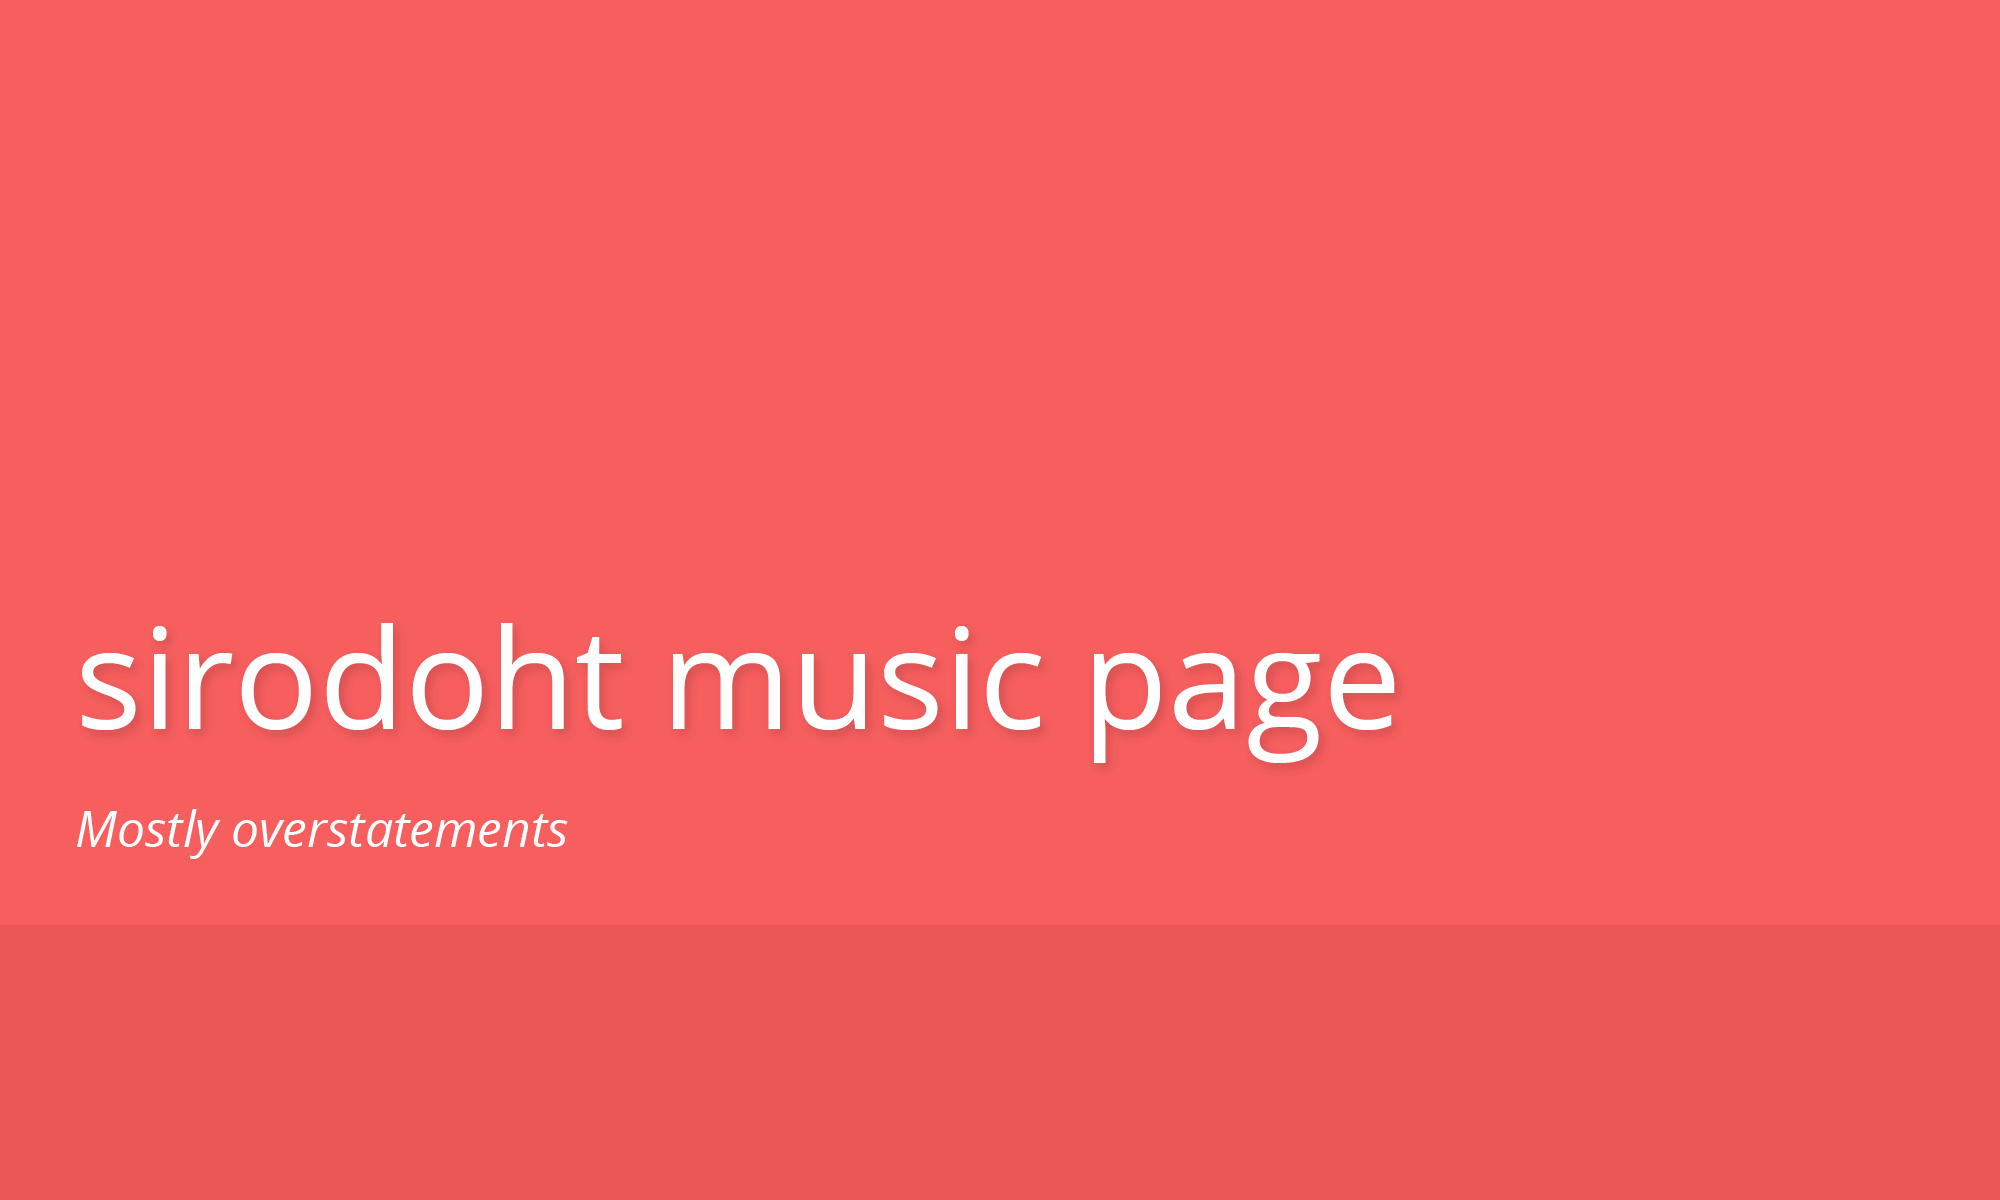
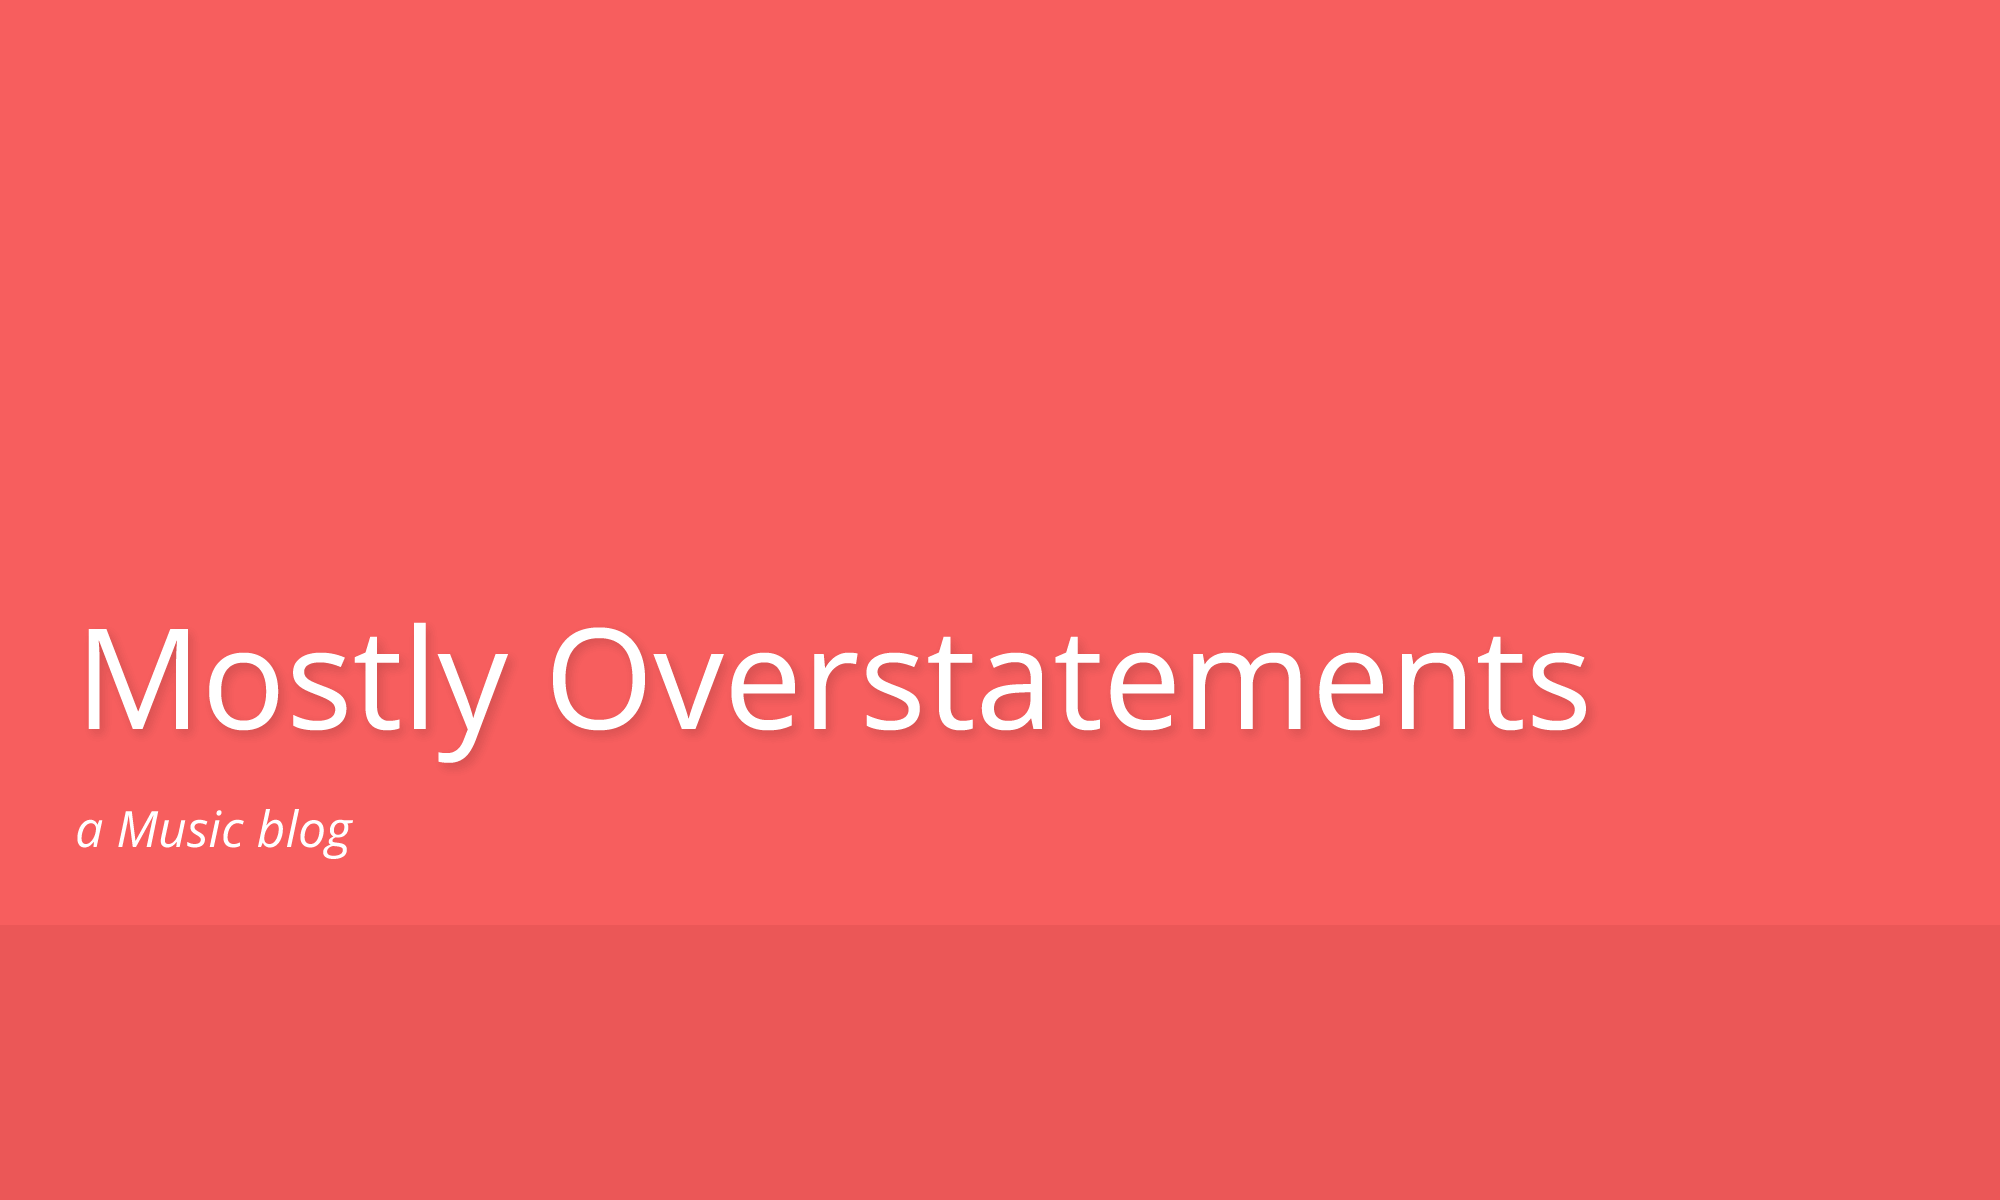
update site description and social card

Changed region(s): [[0.031, 0.5242, 0.806, 0.6475], [0.031, 0.6783, 0.279, 0.7092]]

diff --git a/index.html b/index.html
@@ -4,12 +4,12 @@
         <meta charset="utf-8">
         <meta http-equiv="X-UA-Compatible" content="IE=edge">
         <meta name="viewport" content="width=device-width, initial-scale=1">
-        <meta name="description" content="Mostly Overstatements. Music blog of sirodoht.">
+        <meta name="description" content="Mostly Overstatements. A music blog.">
 
         <meta property="og:title" content="sirodoht music page">
-        <meta property="og:description" content="Mostly Overstatements. Music blog of sirodoht.">
-        <meta property="og:url" content="https://music.sirodoht.xyz/">
-        <meta property="og:image" content="https://music.sirodoht.xyz/social-card.png">
+        <meta property="og:description" content="Mostly Overstatements. A music blog.">
+        <meta property="og:url" content="http://mostlyoverstatements.com/">
+        <meta property="og:image" content="http://mostlyoverstatements.com/social-card.png">
         <meta property="og:type" content="website">
 
         <title>Mostly Overstatements</title>
@@ -20,7 +20,7 @@
   <body>
     <section class="prelude">
         <h1>Mostly Overstatements</h1>
-        <div class="prelude-lyric">sirodoht music page</div>
+        <div class="prelude-lyric">a Music blog</div>
         <div class="prelude-separator"></div>
     </section>
 
